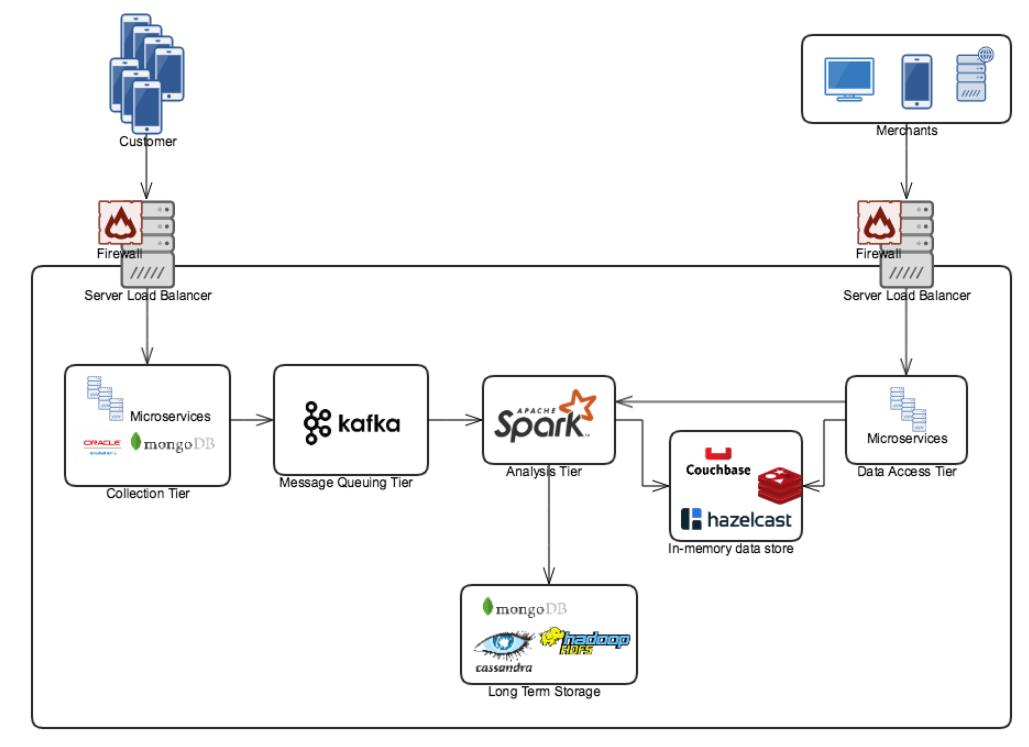
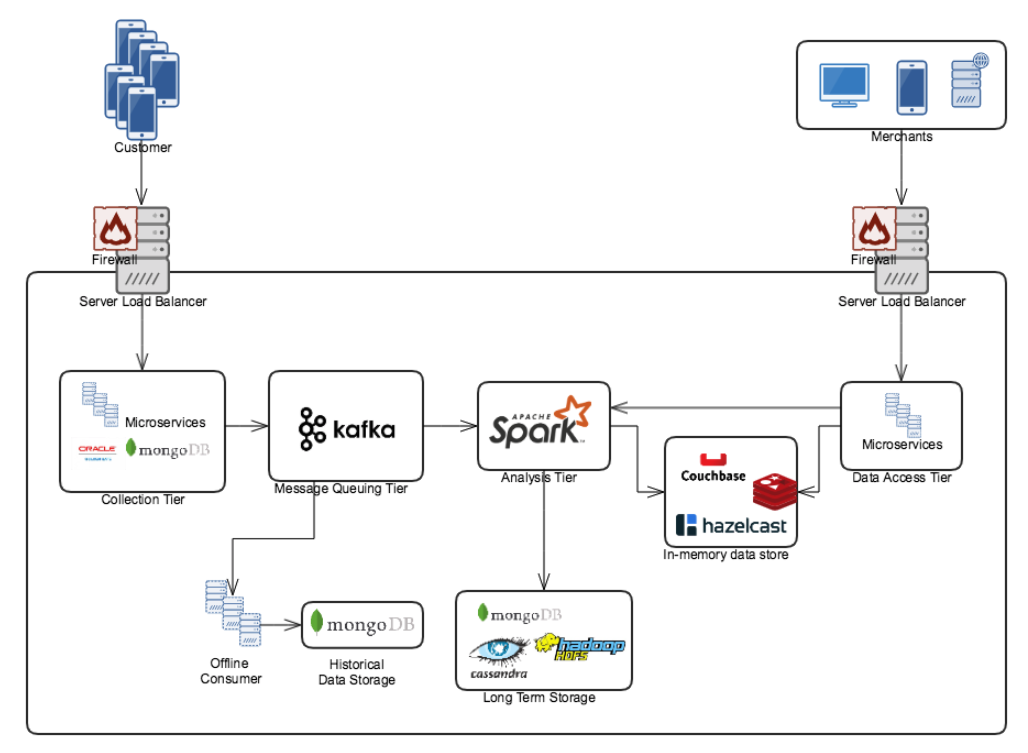
#2 - Add images.

Changed region(s): [[0.0, 0.0, 0.9961, 0.9853], [0.2802, 0.4618, 0.4047, 0.4926], [0.0311, 0.9545, 0.0623, 0.9853]]

diff --git a/DesignQuestion/ArchitectureSpecification.md b/DesignQuestion/ArchitectureSpecification.md
@@ -152,8 +152,6 @@ Round Robing approach will work for balancing the load.
 
 The SLB server will be located in the DMZ security zone.
 
-![image2-10, 1-6]()
-
 ### Message Queuing tier
 
 Streaming system usually span across many servers, so decoupling of the various components is crucial.   
@@ -170,11 +168,9 @@ But still, message can fail due to the speed different between producer producin
 Message Queues such as Kafka has fault tolerance with this by using durable messaging.   
 With durable message, consumer can read message slowly, and even can being in offline and perform batch process when it necessary.
 
-![image3-9]()
+![OfflineConsumer](./Images/OfflineConsumer.png)
 
 When data lost due to network failure, broker crashed, message queue crashed or consumer crashed, offline consumer can perform batch job from the durable message of historical data store.  
-
-![image3-11]()
 
 Message should be processed 'at least once' basis when it crashed due to any reason.   
 Additional Message auditing is required for this purpose.
@@ -232,5 +228,3 @@ Round Robing approach will work for balancing the load.
 #### Security
 
 This server (or machine) will be located in the DMZ security zone.
-
-![image2-10]()
